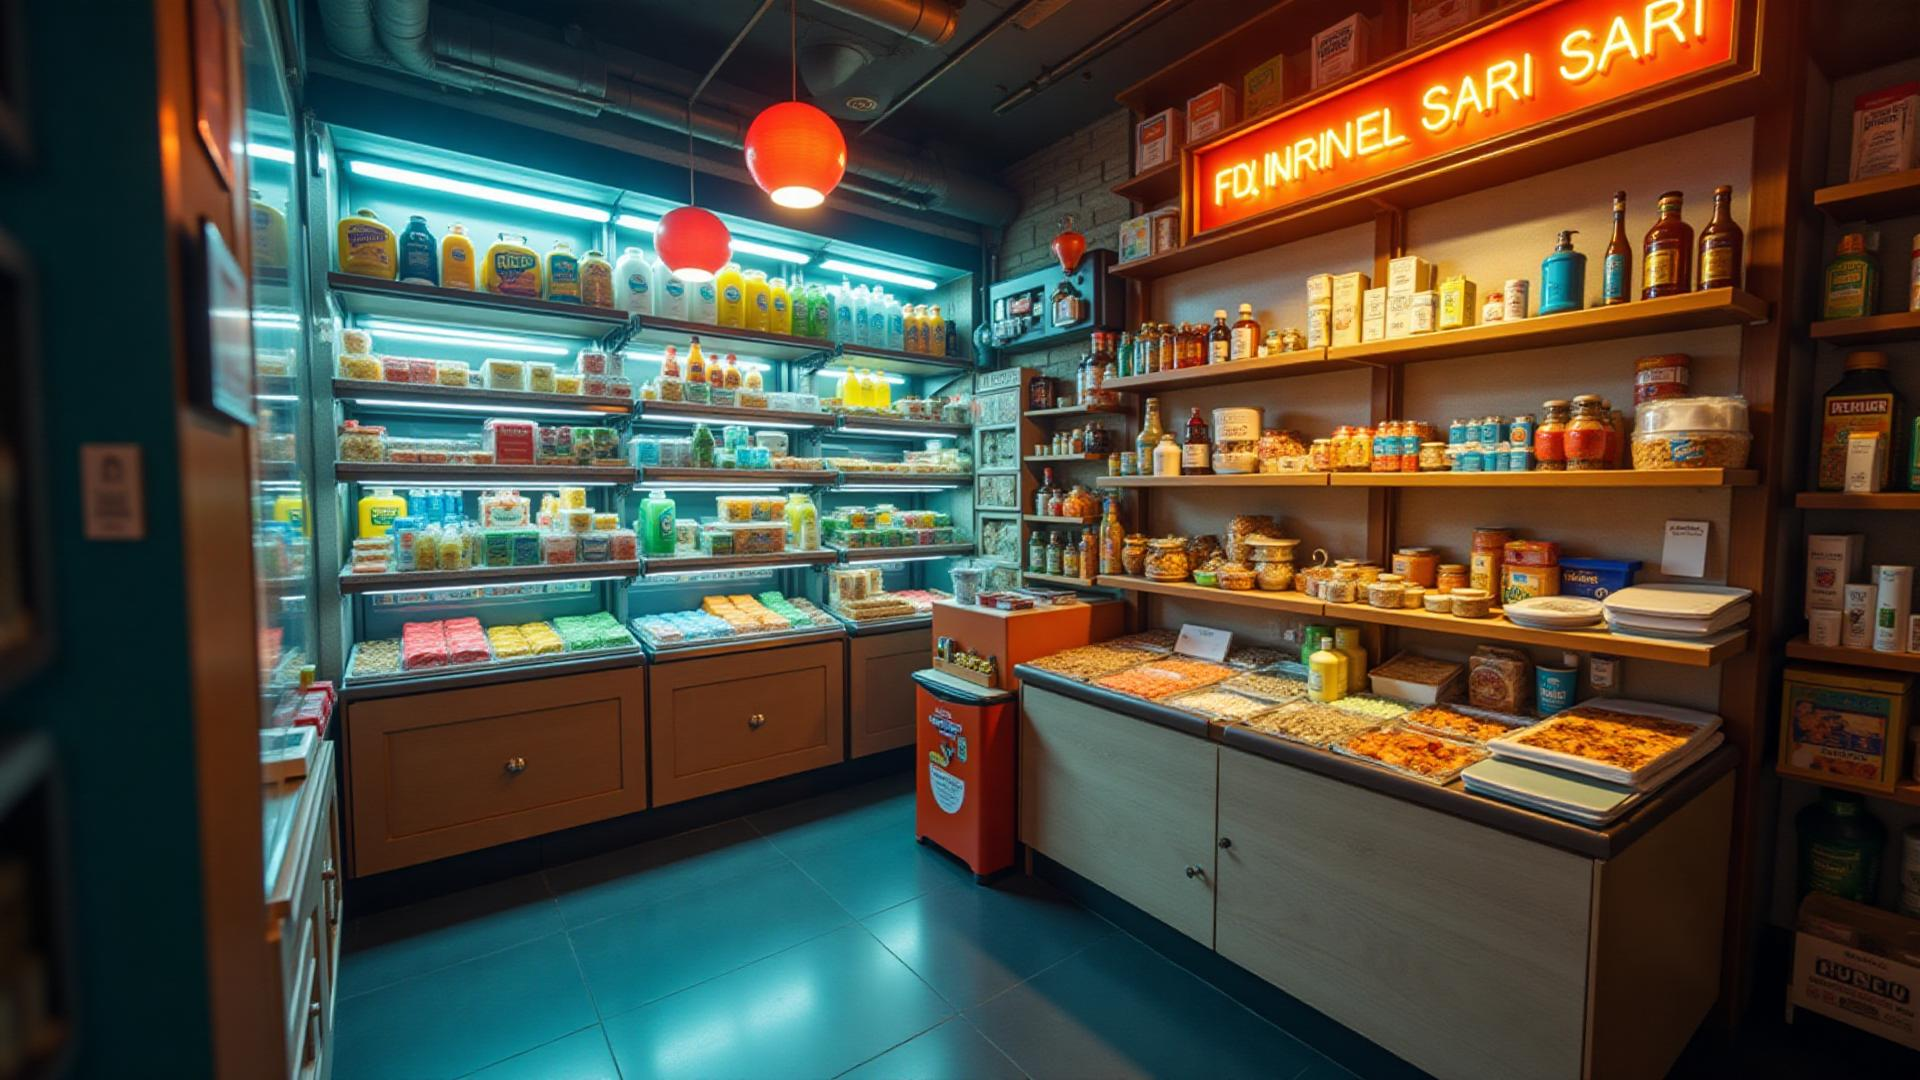
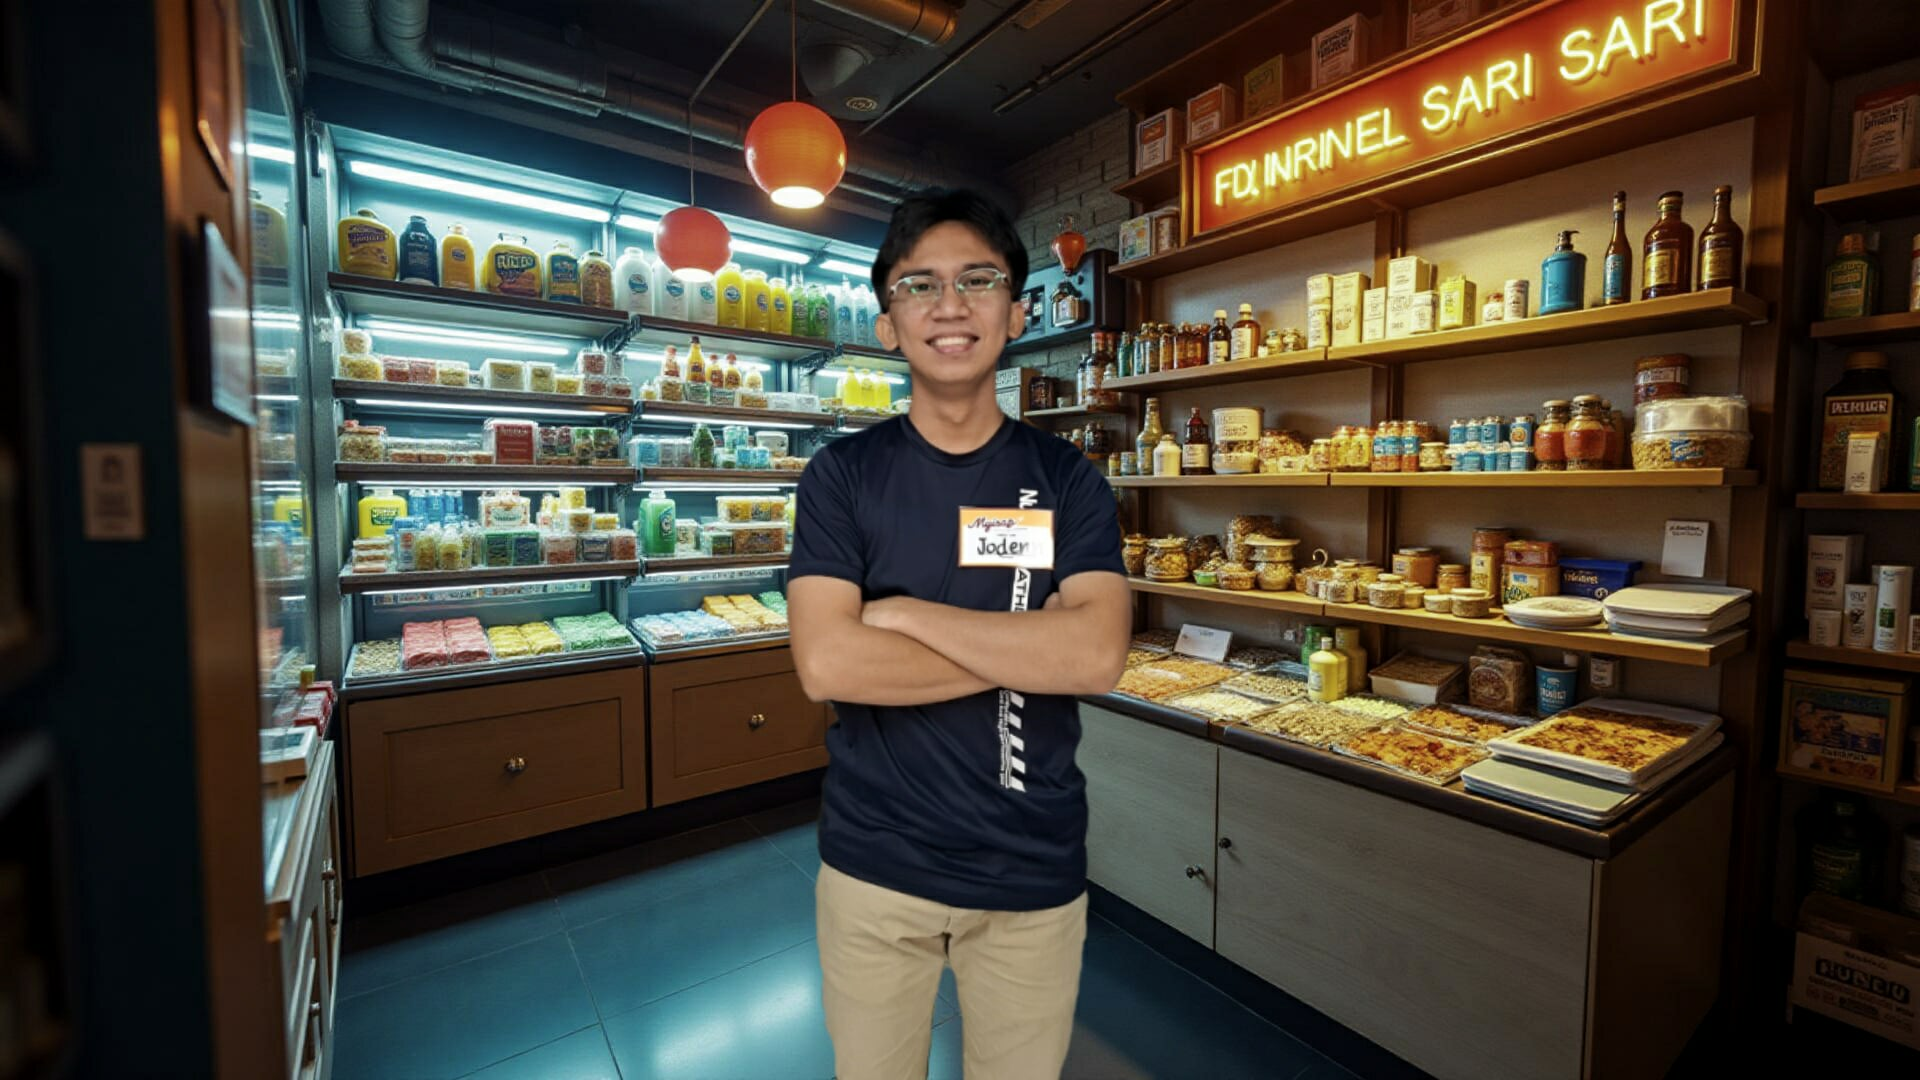
Added Jodenn

diff --git a/index.html b/index.html
@@ -3,18 +3,10 @@
   <head>
     <meta charset="UTF-8" />
     <meta name="viewport" content="width=device-width, initial-scale=1.0" />
-    <title>tinda-bloom-web</title>
-    <meta name="description" content="Lovable Generated Project" />
-    <meta name="author" content="Lovable" />
-
-    <meta property="og:title" content="tinda-bloom-web" />
-    <meta property="og:description" content="Lovable Generated Project" />
-    <meta property="og:type" content="website" />
-    <meta property="og:image" content="https://lovable.dev/opengraph-image-p98pqg.png" />
-
-    <meta name="twitter:card" content="summary_large_image" />
-    <meta name="twitter:site" content="@lovable_dev" />
-    <meta name="twitter:image" content="https://lovable.dev/opengraph-image-p98pqg.png" />
+    <title>TINDA</title>
+    <meta name="description" content="TINDA for Sari Sari Stores" />
+    <meta name="author" content="Team JForce" />
+    
   </head>
 
   <body>
